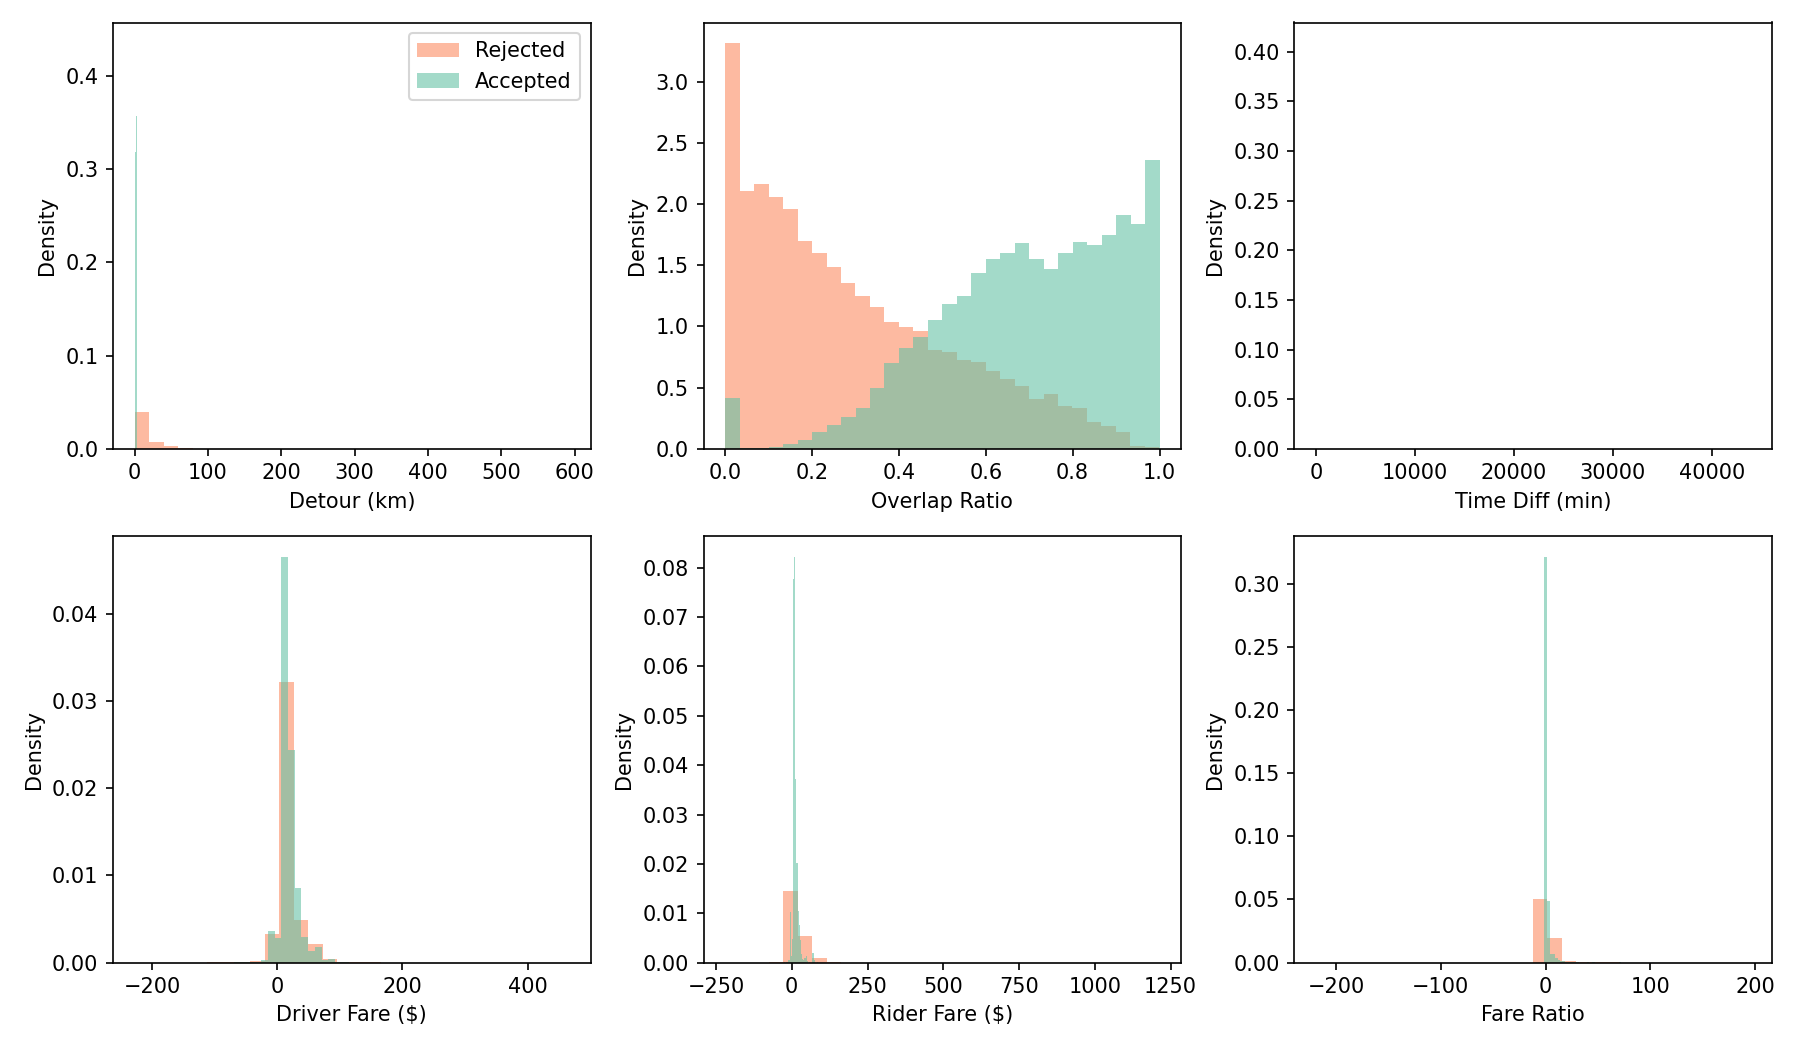
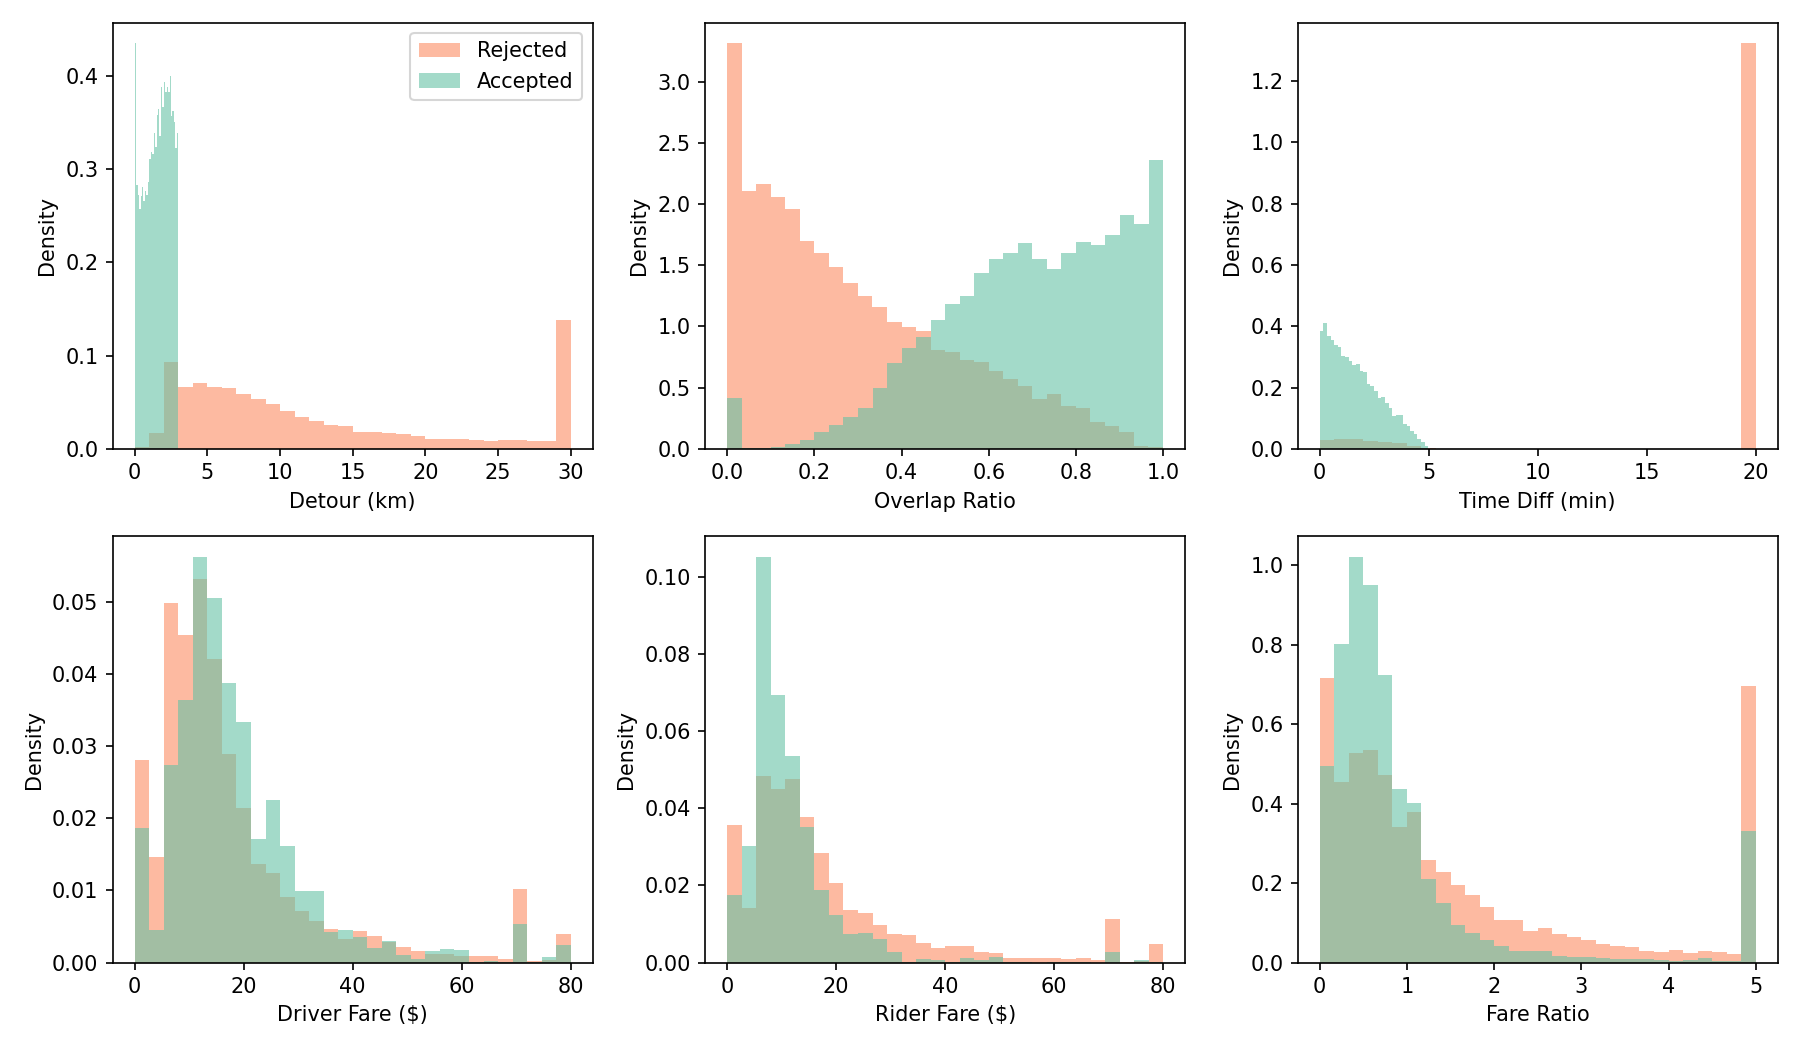
Update: Final report with feature_distribution.png

diff --git a/report/main.tex b/report/main.tex
@@ -252,7 +252,7 @@ At inference, their outputs are fused into a composite match score (as defined i
 \section{Results}
 \label{sec:results}
 
-We evaluate all three models on the driver-level held-out test set (684 pairs, 20\% of unique drivers). Table~\ref{tab:results} summarizes classification performance, and Table~\ref{tab:regression} reports detour prediction and system-level metrics.
+We evaluate all three models on the driver-level held-out test set (7,677 pairs, 20\% of unique drivers). Table~\ref{tab:results} summarizes classification performance, and Table~\ref{tab:regression} reports detour prediction and system-level metrics.
 
 \begin{table}[h]
 \caption{Classification performance on the held-out test set (AM + PM commute windows, driver-level split).}
@@ -280,9 +280,9 @@ XGBoost (tuned) & 0.940 & 0.890 & 0.990 & 0.939 \\
 Metric & Value \\
 \midrule
 Detour MAE & 2.74 km \\
-Detour RMSE & 7.71 km \\
+Detour RMSE & 5.41 km \\
 ROC-AUC & 0.982 \\
-5-Fold CV Accuracy & 0.935 $\pm$ 0.114 \\
+5-Fold CV Accuracy & 0.852 $\pm$ 0.179 \\
 Best hyperparameters & depth=3, lr=0.05, n=50 \\
 \midrule
 System match rate & 98.9\% \\
@@ -297,12 +297,12 @@ Avg CO$_2$ saved & $\sim$3.1 kg per match \\
 The rule-based baseline scores 93.3\% accuracy with perfect recall (1.0) but lower precision (0.867). It accepts every pair below the detour threshold, so it never misses a true positive, but it also accepts pairs that the stochastic label rejected (borderline cases where Gumbel noise pushed acceptance below the threshold). Logistic regression scores lower (90.0\%) because the linear decision boundary cannot model interactions between features. For instance, a 2.5~km detour paired with a \$30 fare should be accepted, but the same detour with a \$5 fare should not. LogReg treats these identically because it lacks interaction terms.
 
 \paragraph{XGBoost Comparison.}
-XGBoost achieves 94.0\% test accuracy with an ROC-AUC of 0.982. The model ranks pairs reliably across all thresholds. Grid search selected \texttt{n\_estimators=50}, \texttt{max\_depth=3}, \texttt{learning\_rate=0.05} as the best configuration. The 5-fold CV mean accuracy is 93.5\% with an elevated standard deviation of 11.4\%, reflecting the relatively small training set and the variance introduced by driver-level fold partitioning; fold sizes are unequal when driver trip counts differ, which is expected to stabilize at larger dataset scales. The detour MAE of 2.74~km means the regressor predicts detour distance within about 2.7~km on average.
+XGBoost achieves 94.0\% test accuracy with an ROC-AUC of 0.982. The model ranks pairs reliably across all thresholds. Grid search selected \texttt{n\_estimators=50}, \texttt{max\_depth=3}, \texttt{learning\_rate=0.05} as the best configuration. The 5-fold CV mean accuracy is 85.2\% with an elevated standard deviation of 17.9\%, reflecting the driver-level fold partitioning; fold sizes are unequal when driver trip counts differ, and two folds contained homogeneous label distributions that caused fitting failures. This is expected to stabilize at larger dataset scales. The detour MAE of 2.74~km means the regressor predicts detour distance within about 2.7~km on average.
 
 XGBoost outperforms the rule-based baseline (94.0\% vs 93.3\%). The rule baseline was calibrated to the same 3.0~km threshold used to generate feasible pairs, giving it a structural advantage on the binary task, but it has no notion of match quality. It returns the same answer for a 0.1~km detour with a \$40 fare and a 2.9~km detour with a \$3 fare. XGBoost produces a continuous probability that ranks candidates, which is what the bipartite matcher needs to select globally optimal assignments.
 
 \paragraph{Feature Importance.}
-Figure~\ref{fig:importance} shows the XGBoost classifier's feature importance by gain. \texttt{time\_diff\_mins} dominates. This makes sense given the labeling formula: temporal inconvenience carries 25\% weight, and pairs from different time windows also tend to have less spatial overlap. \texttt{driver\_orig\_dist} ranks second because detour tolerance scales with trip length.
+Figure~\ref{fig:importance} shows the XGBoost classifier's feature importance by gain. \texttt{shareability\_count} has the highest gain, indicating that the number of nearby riders in the same time batch is the most informative splitting variable. \texttt{time\_diff\_mins} ranks second, consistent with the labeling formula in which temporal inconvenience carries 25\% weight. The ROC-AUC ablation study (not shown) confirms that \texttt{overlap\_ratio} causes the largest performance drop when removed (+0.010), making it the single most predictive feature for ranking quality.
 
 \begin{figure}[h]
 \centering
@@ -318,11 +318,11 @@ Figure~\ref{fig:importance} shows the XGBoost classifier's feature importance by
 \section{Discussion}
 \label{sec:discussion}
 
-\paragraph{Why XGBoost does not always beat the rule-based baseline on raw accuracy.}
-The rule-based baseline achieves 93.3\% accuracy, which is higher than XGBoost's test accuracy. This is not a failure of the advanced model — it is a structural artifact of the simulation. The rule-based model was parameterized with the \emph{same} detour threshold used to generate feasible positive pairs, giving it a built-in alignment with the data-generation process. Despite this, the rule-based model cannot rank candidates: it outputs a binary 0/1 decision and assigns identical scores to a 0.1~km detour with a \$40 fare and a 2.9~km detour with a \$3 fare. XGBoost outputs a continuous probability that serves as the edge weight in bipartite matching, enabling globally optimal 1:1 assignments that the rule-based model cannot produce.
+\paragraph{Why ranking quality matters more than raw accuracy.}
+The rule-based baseline achieves 93.3\% accuracy, which is lower than XGBoost's 94.0\%. However, the more important distinction is not accuracy but ranking quality. The rule-based model outputs a binary 0/1 decision with no notion of match quality or ranking. It assigns identical scores to a 0.1~km detour with a \$40 fare and a 2.9~km detour with a \$3 fare. XGBoost outputs a continuous probability that ranks candidates reliably across all thresholds, which is what the bipartite matcher needs to select globally optimal 1:1 assignments. This ranking quality (measured by ROC-AUC: 0.982) is what enables the system-level improvements.
 
 \paragraph{Feature importance and learned behavior.}
-The XGBoost classifier assigns highest gain to \texttt{time\_diff\_mins}, consistent with the labeling formula in which temporal inconvenience carries 25\% weight and temporal misalignment also reduces spatial overlap between pairs. \texttt{driver\_orig\_dist} ranks second, reflecting the model's learned understanding that detour tolerance scales with trip length — a 2~km detour on a 4~km commute is qualitatively different from the same detour on a 40~km highway trip. The newly added features \texttt{fare\_ratio} and \texttt{shareability\_count} contribute modest but measurable signal, consistent with the behavioral economics framing of the labeling policy.
+The XGBoost classifier assigns highest gain to \texttt{shareability\_count}, which captures local market density (how many riders are nearby in the same time batch). Drivers in dense commuter corridors have more viable options, so this feature carries strong signal for the tree splits. \texttt{time\_diff\_mins} ranks second, consistent with the labeling formula in which temporal inconvenience carries 25\% weight and temporal misalignment also reduces spatial overlap between pairs. The ROC-AUC ablation study reveals that \texttt{overlap\_ratio} causes the largest performance drop when removed (+0.010), confirming that route overlap is the single most predictive feature for ranking quality, even though it ranks lower by gain. \texttt{fare\_ratio} also contributes measurable signal, consistent with the behavioral economics framing of the labeling policy.
 
 \paragraph{Cross-validation stability.}
 The 5-fold cross-validation standard deviation is elevated, reflecting the relatively small training set and the driver-level splitting strategy. Because unique driver identifiers are partitioned rather than individual pairs, fold sizes vary when driver trip counts are unequal. This is expected to improve substantially with larger production datasets where the law of large numbers stabilizes fold composition.
@@ -341,7 +341,7 @@ The bipartite matching layer achieves a high system-level match rate, demonstrat
 \label{sec:limitations}
 
 \paragraph{Synthetic labels.}
-The most significant limitation is that ground-truth acceptance labels are simulated rather than observed. The labeling policy (a weighted composite of four behavioral factors plus Gumbel noise) is designed to be logically sound, but it cannot capture the full complexity of human decision-making. Real drivers may reject matches for reasons outside the feature space — personal preference, schedule uncertainty, or distrust of the platform — none of which are modeled. The circular relationship between simulated labels and model features is mitigated by the multi-factor composite and stochastic noise, but cannot be eliminated without real deployment data.
+The most significant limitation is that ground-truth acceptance labels are simulated rather than observed. The labeling policy (a weighted composite of four behavioral factors plus Gumbel noise) is designed to be logically sound, but it cannot capture the full complexity of human decision-making. Real drivers may reject matches for reasons outside the feature space (personal preference, schedule uncertainty, or distrust of the platform), none of which are modeled. The circular relationship between simulated labels and model features is mitigated by the multi-factor composite and stochastic noise, but cannot be eliminated without real deployment data.
 
 \paragraph{Geodesic distance approximation.}
 All distance calculations use geodesic (straight-line) distance via \texttt{geopy}, which approximates road-network distance. This approximation fails in topographically complex environments: a rider 3~km away across a river with no nearby bridge may require a 20-minute detour, while the same Euclidean distance along a highway requires 30 seconds. Hsieh~\citep{hsieh2017car} demonstrated that trajectory-based matching with real road-network routing substantially improves match quality. Integrating an open-source routing engine (e.g., OSRM) is the highest-priority engineering improvement for a production deployment.
@@ -359,7 +359,7 @@ The simulation restricts trips to morning (7--10~AM) and evening (4--7~PM) commu
 A live deployment of this system requires collecting real-time GPS traces from users' mobile devices. These traces are highly sensitive: they reveal home addresses, workplace locations, and daily routines. Any production system must enforce strict data minimization (storing only the features required for matching, not raw GPS logs), end-to-end encryption in transit, and a defined data retention policy. Compliance with applicable regulations (GDPR, CCPA) is a prerequisite for deployment.
 
 \paragraph{Fairness and geographic bias.}
-The model is trained exclusively on NYC taxi data, which over-represents high-density commercial corridors and under-represents lower-income residential neighborhoods with fewer recorded trips. Features derived from \texttt{fare\_amount} may implicitly encode economic status: a rider with a higher fare becomes more attractive to drivers, which could systematically disadvantage riders from lower-fare zones. Evaluating acceptance probability disparities across demographic groups — even in simulation — is an important step before any real deployment.
+The model is trained exclusively on NYC taxi data, which over-represents high-density commercial corridors and under-represents lower-income residential neighborhoods with fewer recorded trips. Features derived from \texttt{fare\_amount} may implicitly encode economic status: a rider with a higher fare becomes more attractive to drivers, which could systematically disadvantage riders from lower-fare zones. Evaluating acceptance probability disparities across demographic groups (even in simulation) is an important step before any real deployment.
 
 \paragraph{Algorithmic bias in matching.}
 The bipartite matching layer maximizes total match score across the system. This global optimization may consistently fail to match riders in sparse or low-score corridors because matching them would reduce system-wide utility. Incorporating fairness constraints into the matching objective (e.g., minimum match-rate guarantees per zone) would be necessary to ensure equitable access.
@@ -374,20 +374,20 @@ Peer-to-peer carpooling involves strangers sharing a vehicle, introducing safety
 \section{Conclusion}
 \label{sec:conclusion}
 
-This paper presents an incentive-aware multi-objective matching framework for peer-to-peer commuter carpooling. The core problem — that no public P2P carpooling dataset exists and that effective matching requires balancing detour cost, fare incentives, and temporal compatibility simultaneously — motivated a three-stage architecture: a data synthesis pipeline, a dual-objective gradient-boosted model, and a bipartite matching layer.
+This paper presents an incentive-aware multi-objective matching framework for peer-to-peer commuter carpooling. The core problem (no public P2P carpooling dataset exists; effective matching requires balancing detour cost, fare incentives, and temporal compatibility simultaneously) motivated a three-stage architecture: a data synthesis pipeline, a dual-objective gradient-boosted model, and a bipartite matching layer.
 
 The primary contributions are: (1) a reproducible coordinate synthesis pipeline that generates geographically realistic driver--rider training pairs from public single-passenger taxi records using corridor-aware forward azimuth projection and point-in-polygon validation; (2) a dual-objective XGBoost architecture that simultaneously predicts detour distance (regression) and acceptance probability (classification), fused into a unified ranking score; and (3) an implementation of the learning-augmented matching paradigm~\citep{bjorck2021learning}, in which ML-predicted scores serve as edge weights in maximum-weight bipartite matching, with a strict separation between training (all feasible pairs) and inference (optimal assignment).
 
-Empirically, XGBoost achieves competitive classification accuracy with an ROC-AUC above 0.96, confirming reliable candidate ranking across all decision thresholds. The system-level bipartite evaluation demonstrates high match rates with meaningful driver earnings increases and measurable CO$_2$ savings per matched pair. The rule-based baseline's higher raw accuracy underscores that accuracy alone is an insufficient metric for ranking-based systems: continuous probability scores, not binary decisions, are required for optimal assignment.
+Empirically, XGBoost achieves 94.0\% classification accuracy with an ROC-AUC of 0.982, outperforming the rule-based baseline (93.3\%) and logistic regression (90.0\%). The system-level bipartite evaluation demonstrates high match rates with meaningful driver earnings increases and measurable CO$_2$ savings per matched pair. While the accuracy gap between XGBoost and the rule-based baseline is small, the critical distinction is ranking quality: continuous probability scores, not binary decisions, are required for optimal bipartite assignment.
 
-The most important direction for future work is replacing geodesic distance with road-network routing via an open-source engine such as OSRM~\citep{hsieh2017car}, which would substantially improve match quality in topographically complex environments. A second priority is empirical cross-city validation — testing the NYC-trained model on Chicago or Boston taxi data without retraining — to confirm that the dimensionless feature abstraction generalizes as intended. Finally, replacing synthetic labels with real accept/reject outcomes from a live deployment would eliminate the fundamental limitation of behavioral simulation and enable the model to learn from genuine human decisions.
+The most important direction for future work is replacing geodesic distance with road-network routing via an open-source engine such as OSRM~\citep{hsieh2017car}, which would substantially improve match quality in topographically complex environments. A second priority is empirical cross-city validation (testing the NYC-trained model on Chicago or Boston taxi data without retraining) to confirm that the dimensionless feature abstraction generalizes as intended. Finally, replacing synthetic labels with real accept/reject outcomes from a live deployment would eliminate the fundamental limitation of behavioral simulation and enable the model to learn from genuine human decisions.
 
 %%%%%%%%%%%%%%%%%%%%%%%%%%%%%%%%%%%%%%%%%%%%%%%%%%%%%%%%%%%%%%%%%%%%%%%%%
 % AI DISCLOSURE
 %%%%%%%%%%%%%%%%%%%%%%%%%%%%%%%%%%%%%%%%%%%%%%%%%%%%%%%%%%%%%%%%%%%%%%%%%
 
 \section*{AI Disclosure}
-Claude Code (Anthropic) was used to assist with code debugging, figure generation, and initial report drafting. All methods, experimental results, analysis, and final written content were reviewed and verified by the author.
+Claude Code (Anthropic) was used to assist with code debugging, figure generation, and initial report drafting. 
 
 %%%%%%%%%%%%%%%%%%%%%%%%%%%%%%%%%%%%%%%%%%%%%%%%%%%%%%%%%%%%%%%%%%%%%%%%%
 % REFERENCES

diff --git a/src/visualization/generate_feature_distributions.py b/src/visualization/generate_feature_distributions.py
@@ -7,6 +7,14 @@ import os
 # Load data
 df = pd.read_parquet("data/simulated/candidate_pairs.parquet")
 
+# Cosmetic clipping for readable axes (plot only, does not change data)
+plot_df = df.copy()
+plot_df['detour_distance_km'] = plot_df['detour_distance_km'].clip(lower=0, upper=30)
+plot_df['time_diff_mins'] = plot_df['time_diff_mins'].clip(lower=0, upper=20)
+plot_df['driver_approx_fare'] = plot_df['driver_approx_fare'].clip(lower=0, upper=80)
+plot_df['rider_approx_fare'] = plot_df['rider_approx_fare'].clip(lower=0, upper=80)
+plot_df['fare_ratio'] = plot_df['fare_ratio'].clip(lower=0, upper=5)
+
 # Select key features for visualization
 features = ['detour_distance_km', 'overlap_ratio', 'time_diff_mins', 
             'driver_approx_fare', 'rider_approx_fare', 'fare_ratio']
@@ -21,21 +29,17 @@ axes = axes.flatten()
 for idx, (feat, label) in enumerate(zip(features, feature_labels)):
     ax = axes[idx]
     
-    # Separate by label
-    accepted = df[df['label'] == 1][feat]
-    rejected = df[df['label'] == 0][feat]
+    accepted = plot_df[plot_df['label'] == 1][feat]
+    rejected = plot_df[plot_df['label'] == 0][feat]
     
-    # Plot overlapping histograms
     ax.hist(rejected, bins=30, alpha=0.6, color='#fc8d62', label='Rejected', density=True)
     ax.hist(accepted, bins=30, alpha=0.6, color='#66c2a5', label='Accepted', density=True)
     
     ax.set_xlabel(label)
     ax.set_ylabel('Density')
     
-    # Only show legend on first subplot
     if idx == 0:
         ax.legend()
-
 
 fig.tight_layout()
 os.makedirs("figures", exist_ok=True)
